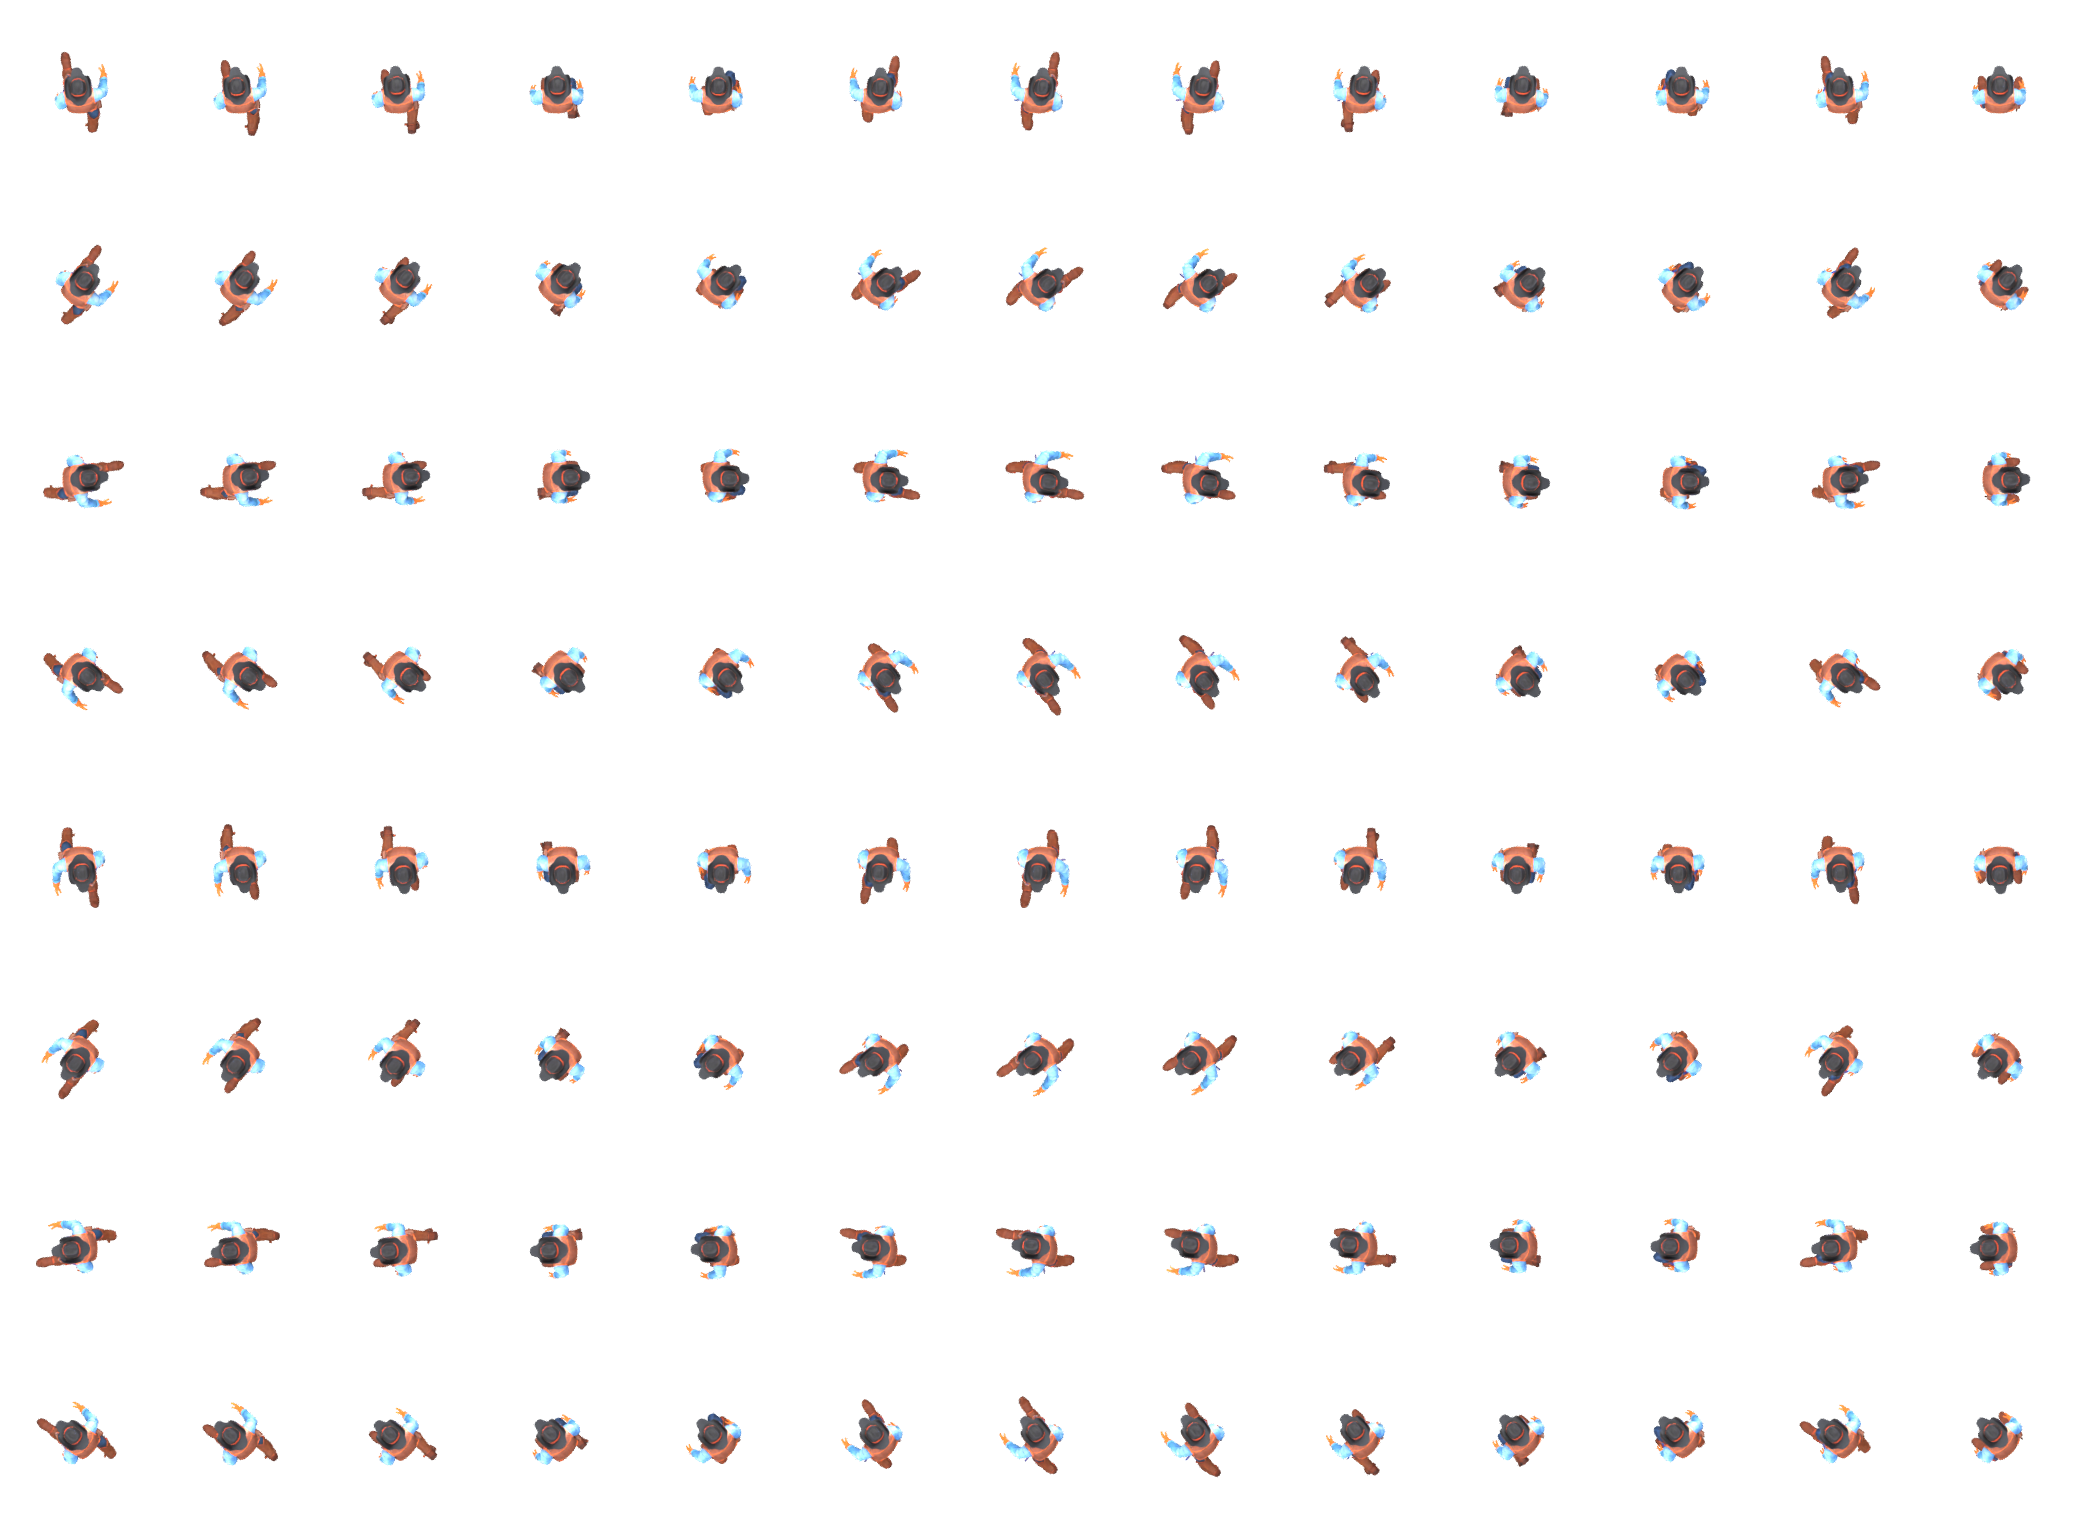
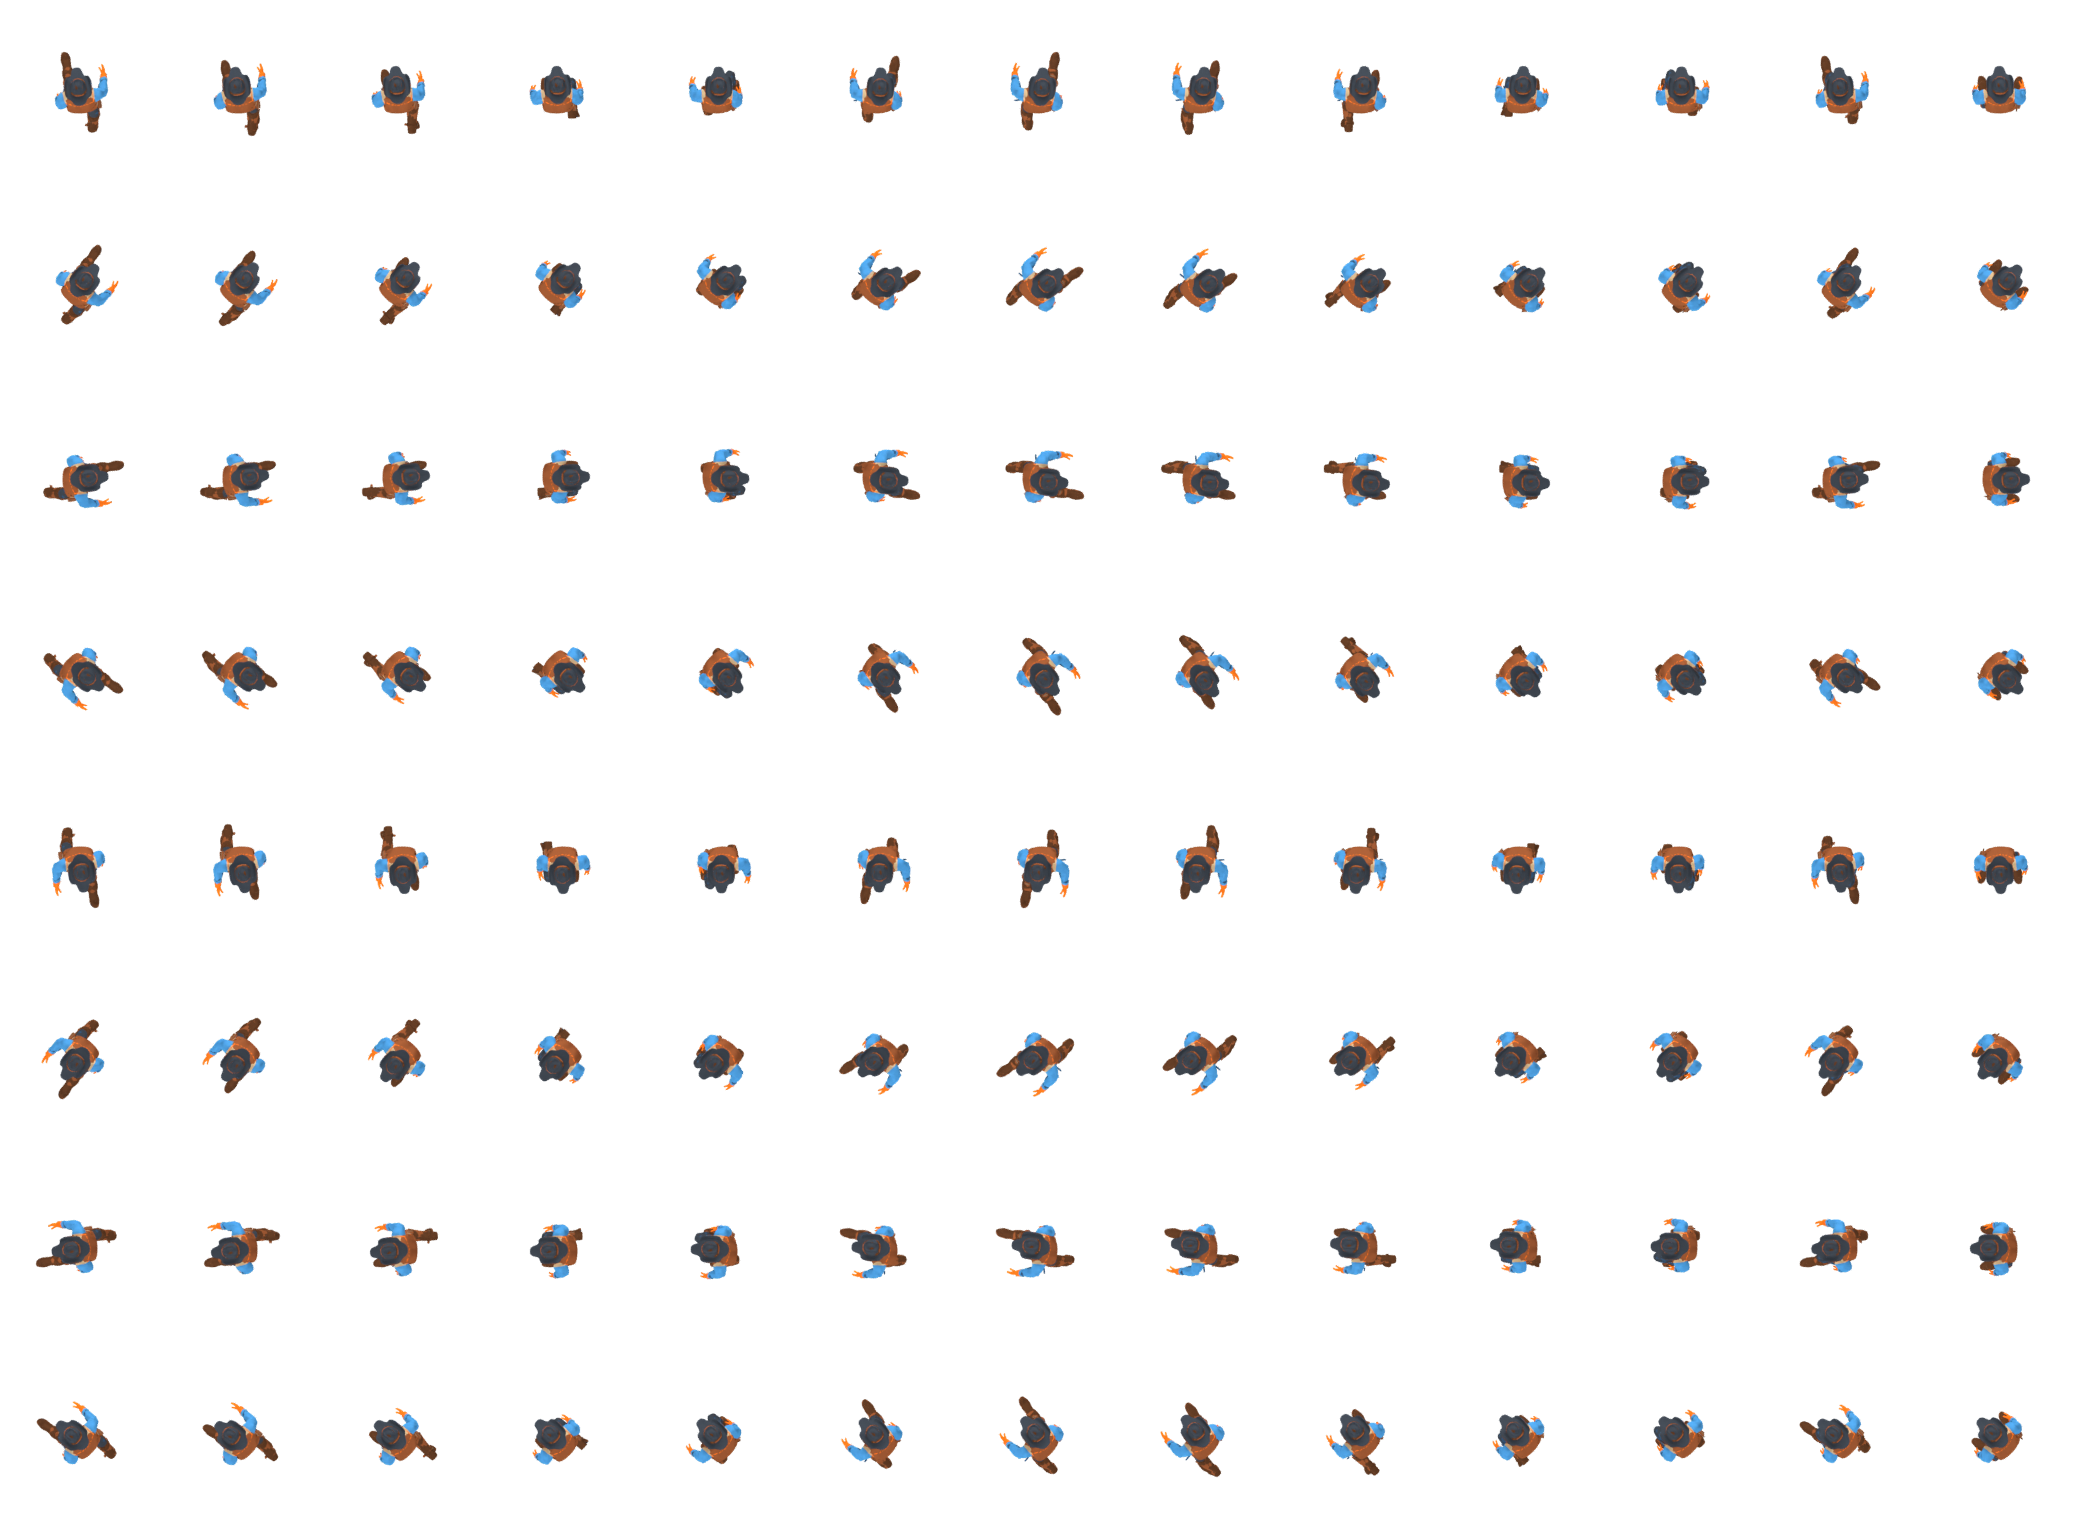
Render cowboy sprites in the approved flat-cartoon style

diff --git a/tool/flat_cartoon_materials.py b/tool/flat_cartoon_materials.py
@@ -1,0 +1,81 @@
+"""Owner-selected flat-cartoon preview C, applied only in the render worker.
+
+Keep the original mesh, UVs, rig, animation, material datablocks and packed images
+in the master untouched. Never save the opened source after applying this style.
+"""
+import bpy
+
+STYLE = 'flat-cartoon-v1'
+PALETTE = (
+    (.055, .245, .52, 1), (.025, .065, .13, 1),
+    (.25, .073, .025, 1), (.80, .145, .010, 1),
+    (.085, .032, .013, 1), (.035, .043, .055, 1),
+    (.18, .13, .085, 1), (.52, .36, .20, 1),
+)
+
+
+def apply_flat_cartoon():
+    for image in bpy.data.images:
+        if image.type == 'IMAGE' and image.size[0] > 0:
+            width, height = image.size
+            if max(width, height) > 128:
+                factor = 128 / max(width, height)
+                image.scale(max(1, round(width * factor)),
+                            max(1, round(height * factor)))
+
+    for material in bpy.data.materials:
+        if not material.use_nodes or material.name == 'Neutral review floor':
+            continue
+        tree = material.node_tree
+        principled = next((n for n in tree.nodes
+                           if n.type == 'BSDF_PRINCIPLED'), None)
+        if principled is None:
+            continue
+        output = next(n for n in tree.nodes if n.type == 'OUTPUT_MATERIAL')
+        base = principled.inputs['Base Color']
+        if base.is_linked:
+            color = base.links[0].from_socket
+        else:
+            rgb = tree.nodes.new('ShaderNodeRGB')
+            rgb.outputs[0].default_value = base.default_value
+            color = rgb.outputs[0]
+
+        best_distance = chosen_color = None
+        for palette_color in PALETTE:
+            rgb = tree.nodes.new('ShaderNodeRGB')
+            rgb.outputs[0].default_value = palette_color
+            distance = tree.nodes.new('ShaderNodeVectorMath')
+            distance.operation = 'DISTANCE'
+            tree.links.new(color, distance.inputs[0])
+            distance.inputs[1].default_value = palette_color[:3]
+            if best_distance is None:
+                best_distance = distance.outputs['Value']
+                chosen_color = rgb.outputs[0]
+                continue
+            less = tree.nodes.new('ShaderNodeMath')
+            less.operation = 'LESS_THAN'
+            tree.links.new(distance.outputs['Value'], less.inputs[0])
+            tree.links.new(best_distance, less.inputs[1])
+            select = tree.nodes.new('ShaderNodeMixRGB')
+            tree.links.new(less.outputs[0], select.inputs[0])
+            tree.links.new(chosen_color, select.inputs[1])
+            tree.links.new(rgb.outputs[0], select.inputs[2])
+            closest = tree.nodes.new('ShaderNodeMath')
+            closest.operation = 'MINIMUM'
+            tree.links.new(best_distance, closest.inputs[0])
+            tree.links.new(distance.outputs['Value'], closest.inputs[1])
+            chosen_color = select.outputs[0]
+            best_distance = closest.outputs[0]
+
+        toon = tree.nodes.new('ShaderNodeBsdfToon')
+        toon.component = 'DIFFUSE'
+        toon.inputs['Size'].default_value = .55
+        toon.inputs['Smooth'].default_value = .03
+        tree.links.new(chosen_color, toon.inputs['Color'])
+        emission = tree.nodes.new('ShaderNodeEmission')
+        tree.links.new(chosen_color, emission.inputs['Color'])
+        mix = tree.nodes.new('ShaderNodeMixShader')
+        mix.inputs[0].default_value = .70
+        tree.links.new(toon.outputs[0], mix.inputs[1])
+        tree.links.new(emission.outputs[0], mix.inputs[2])
+        tree.links.new(mix.outputs[0], output.inputs['Surface'])

diff --git a/tool/export_player_sprites.py b/tool/export_player_sprites.py
@@ -1,23 +1,33 @@
-"""Run in background Blender: render the accepted cowboy, never save its master.
+"""Render the approved cowboy with the owner-selected flat-cartoon materials.
 
 blender -b -t 6 --python tool/export_player_sprites.py
 Then: python tool/pack_player_sprites.py
-Partial outputs resume only when their source hash/settings match.
+Use -- --source <absolute .blend> in an isolated checkout without SourceArt.
+Partial outputs resume only when source, style-script hash and settings match.
 """
 import bpy
 import hashlib
 import json
 import math
+import argparse
+import sys
 from pathlib import Path
 from mathutils import Vector
 from bpy_extras.object_utils import world_to_camera_view
 
 ROOT = Path(__file__).resolve().parents[1]
-SOURCE = ROOT / 'SourceArt/human-cowboy/v008-hands-paint-repair/Cowboy_Hands_and_Paint_Repair.blend'
-OUT = ROOT / 'tmp/avatar/frames-v2'
+sys.path.insert(0, str(ROOT / 'tool'))
+from flat_cartoon_materials import STYLE, apply_flat_cartoon
+
+parser = argparse.ArgumentParser()
+parser.add_argument('--source', type=Path, default=ROOT / 'SourceArt/human-cowboy/v008-hands-paint-repair/Cowboy_Hands_and_Paint_Repair.blend')
+args = parser.parse_args(sys.argv[sys.argv.index('--') + 1:] if '--' in sys.argv else [])
+SOURCE = args.source.resolve()
+OUT = ROOT / 'tmp/avatar-flat-v1/frames'
 OUT.mkdir(parents=True, exist_ok=True)
 source_hash = hashlib.sha256(SOURCE.read_bytes()).hexdigest()
 bpy.ops.wm.open_mainfile(filepath=str(SOURCE))
+apply_flat_cartoon()
 s = bpy.context.scene
 rig = bpy.data.objects['Meeps_Cowboy_Rig']
 assert rig.animation_data.action.name == 'Cowboy_Relaxed_Walk'
@@ -28,8 +38,10 @@ preview.location = (0, 0, 0)
 rig.data.pose_position = 'POSE'
 bpy.data.objects['Review_Ground_Do_Not_Export'].hide_render = True
 s.render.engine = 'CYCLES'
-s.cycles.samples = 8
+s.cycles.samples = 16
 s.cycles.use_denoising = True
+s.render.use_persistent_data = True
+s.view_settings.view_transform = 'Standard'
 s.render.resolution_x = 160
 s.render.resolution_y = 192
 s.render.resolution_percentage = 100
@@ -47,8 +59,11 @@ settings = dict(source_sha256=source_hash, action=rig.animation_data.action.name
                 pitches=[0, 30, 50], duration_seconds=40/30,
                 speed_mps=float(rig.get('matched_travel_m_per_second', 1.2)),
                 in_place=True, idle='existing walk frame 11, neutral rest lower body',
-                source=str(SOURCE.relative_to(ROOT)), version=2)
-record = OUT.parent / 'render-settings-v2.json'
+                source='SourceArt/human-cowboy/v008-hands-paint-repair/Cowboy_Hands_and_Paint_Repair.blend',
+                style=STYLE, samples=16,
+                style_script_sha256=hashlib.sha256((ROOT / 'tool/flat_cartoon_materials.py').read_bytes()).hexdigest(),
+                version=3)
+record = OUT.parent / 'render-settings.json'
 if record.exists():
     assert json.loads(record.read_text()) == settings, 'Export settings changed; use a new output directory'
 record.write_text(json.dumps(settings, indent=2))

diff --git a/tool/pack_player_sprites.py b/tool/pack_player_sprites.py
@@ -2,13 +2,17 @@
 from pathlib import Path
 import hashlib
 import json
+import argparse
 from PIL import Image
 
 ROOT = Path(__file__).resolve().parents[1]
-WORK = ROOT / 'tmp/avatar'
+parser = argparse.ArgumentParser()
+parser.add_argument('--source', type=Path, default=ROOT / 'SourceArt/human-cowboy/v008-hands-paint-repair/Cowboy_Hands_and_Paint_Repair.blend')
+args = parser.parse_args()
+WORK = ROOT / 'tmp/avatar-flat-v1'
 OUT = ROOT / 'assets/player/cowboy'
 OUT.mkdir(parents=True, exist_ok=True)
-metadata = json.loads((WORK/'render-settings-v2.json').read_text())
+metadata = json.loads((WORK/'render-settings.json').read_text())
 metadata['anchors'] = json.loads((WORK/'anchors.json').read_text())
 metadata['atlases'] = []
 for pitch in range(3):
@@ -16,7 +20,7 @@ for pitch in range(3):
     for direction in range(8):
         hashes = set()
         for frame in range(13):
-            image = Image.open(WORK/'frames-v2'/f'p{pitch}-d{direction}-f{frame:02d}.png').convert('RGBA')
+            image = Image.open(WORK/'frames'/f'p{pitch}-d{direction}-f{frame:02d}.png').convert('RGBA')
             assert image.size == (160,192)
             box = image.getbbox()
             assert box and box[0]>0 and box[1]>0 and box[2]<160 and box[3]<192, (pitch,direction,frame,box)
@@ -27,6 +31,6 @@ for pitch in range(3):
     name = f'cowboy-pitch-{metadata["pitches"][pitch]}.png'
     atlas.save(OUT/name, optimize=True)
     metadata['atlases'].append(name)
-assert hashlib.sha256((ROOT/metadata['source']).read_bytes()).hexdigest() == metadata['source_sha256']
+assert hashlib.sha256(args.source.read_bytes()).hexdigest() == metadata['source_sha256']
 (OUT/'manifest.json').write_text(json.dumps(metadata, indent=2)+'\n')
 print('Verified 288 distinct walk frames + 24 idle views; master hash unchanged')

diff --git a/docs/cowboy-player.md b/docs/cowboy-player.md
@@ -3,6 +3,61 @@
 The owner chose rendered animated sprites after reviewing the separate-renderer
 camera/depth tradeoff. No new rendering package or Flame installation is needed.
 
+## Flat-cartoon style — October 21, 2026
+
+Owner selected preview **C / Flat cartoon** and requested the runtime update.
+`tool/flat_cartoon_materials.py` reproduces that preview in the background render
+worker: in-memory 128-pixel texture reduction, the same eight-color palette,
+diffuse Toon BSDF (size 0.55, smooth 0.03) and 70% unlit color contribution.
+Standard color management and 16 Cycles samples match the selected preview.
+The original packed images and materials remain unchanged in the master file;
+the worker never saves it. No mesh, UV, rig, head/neck animation or walk changes
+are included. The original detailed source remains the authoring baseline.
+
+The three runtime atlases retain 160 × 192 tiles, eight headings, twelve walk
+frames plus standing, original foot anchors and the 1.333-second walk. This
+changes appearance without changing Flutter rendering or GPS/gameplay logic.
+It does not claim a runtime-memory or frame-rate improvement.
+
+Regenerate with Blender 5.2:
+
+```powershell
+blender -b -t 6 --python tool/export_player_sprites.py
+python tool/pack_player_sprites.py
+```
+
+In an isolated checkout without local SourceArt, append
+`-- --source <absolute-master.blend>` to the Blender command and
+`--source <absolute-master.blend>` to the packer. Intermediate frames and settings
+are in ignored `tmp/avatar-flat-v1/`. Source and style-script SHA-256 hashes guard
+resume; the runtime manifest records the style and unchanged source hash.
+
+Validation: all 312 transparent frames passed atlas bounds checks; each direction
+contains twelve distinct walk frames. Manifest comparison confirmed unchanged
+source hash, action, timing, dimensions, heading count and foot anchors. Original
[1 lines of base64/hex data omitted]
+Flutter analysis and all 11 focused cowboy tests passed on this feature checkout.
+
+The native preview uses a build-only snapshot of the shared campus workspace at
+`tmp/flat-cartoon-build`, overlaid with these four runtime asset files. This
+includes the ongoing map/cowboy/creature changes without committing or modifying
+their original source. Snapshot analysis and all 54 tests passed. Built with
+Flutter 3.47.7, `--debug --split-per-abi --target-platform android-x64
+--build-number=8008 --dart-define-from-file=.env.app.local.json`; secrets remain
+ignored. All packaged cowboy assets matched the source bytes.
+
+Installed in place on `UTRGV_GO_Preview`, emulator-5554, API 36.1, 1080 × 2400,
+as `com.example.campus_app` 1.0.0 (12008). Signing SHA-256 matched the existing
+installation; the signed-in session remained. Observed the flat-cartoon avatar
+and walking poses on the native map using simulated GPS, including approach to
+Kitty Island. This is not an outdoor GPS or iOS test. The selected preview C was
+approved by the owner before this update; no additional design changes were made.
+
+[Native flat-cartoon preview](evidence/cowboy-flat-cartoon.png).
+The local walk recording and build/source records are retained under ignored
+`output/cowboy-flat-cartoon/`. APK SHA-256:
[1 lines of base64/hex data omitted]
+
 ## Authoritative source
 
 `SourceArt/human-cowboy/v008-hands-paint-repair/Cowboy_Hands_and_Paint_Repair.blend`
@@ -22,8 +77,9 @@ Each atlas contains eight headings, twelve walk frames and a standing view.
 The walk is sampled evenly from its existing 40-frame/30fps loop (1.333 seconds;
 nine exported sprite frames per second at normal playback).
 Standing holds the existing relaxed arms with neutral rest lower-body transforms
-on the export copy. Hat, body, gloves, accessories, materials and proportions are
-rendered directly; no character generation or replacement rig is involved.
+on the export copy. Hat, body, gloves, accessories and proportions are retained;
+no character generation or replacement rig is involved. The October 21
+flat-cartoon update below changes only the render-worker materials.
 
 The source's separate `Matched_Travel_Preview` driver is disabled in the worker.
 The walk stays in place. GPS alone supplies geographic displacement; sprite
